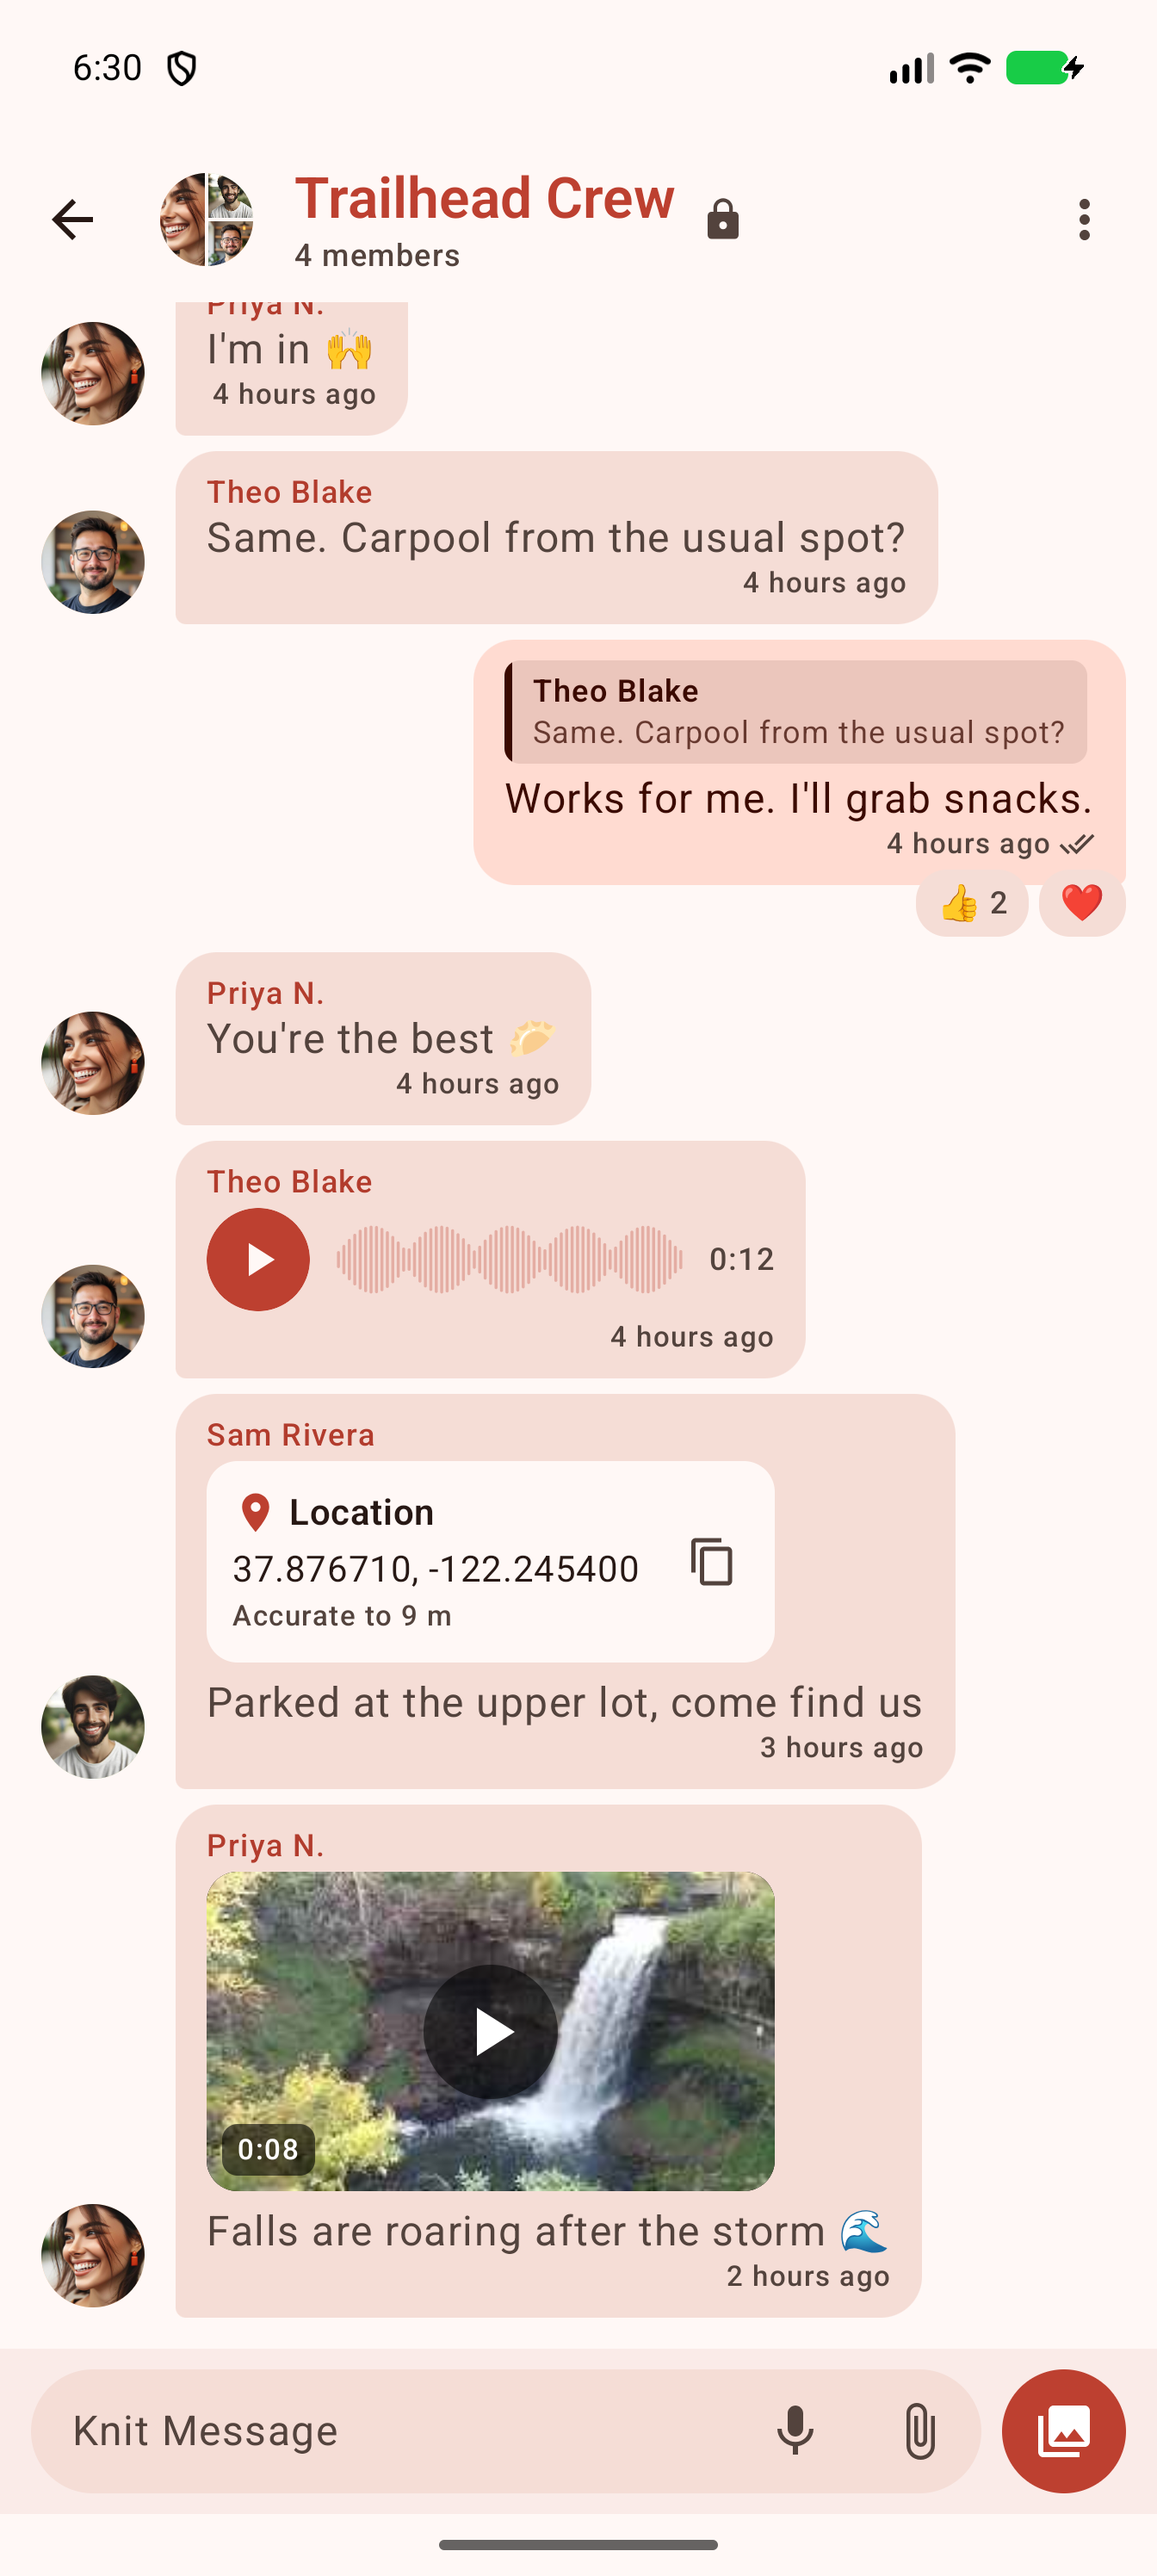
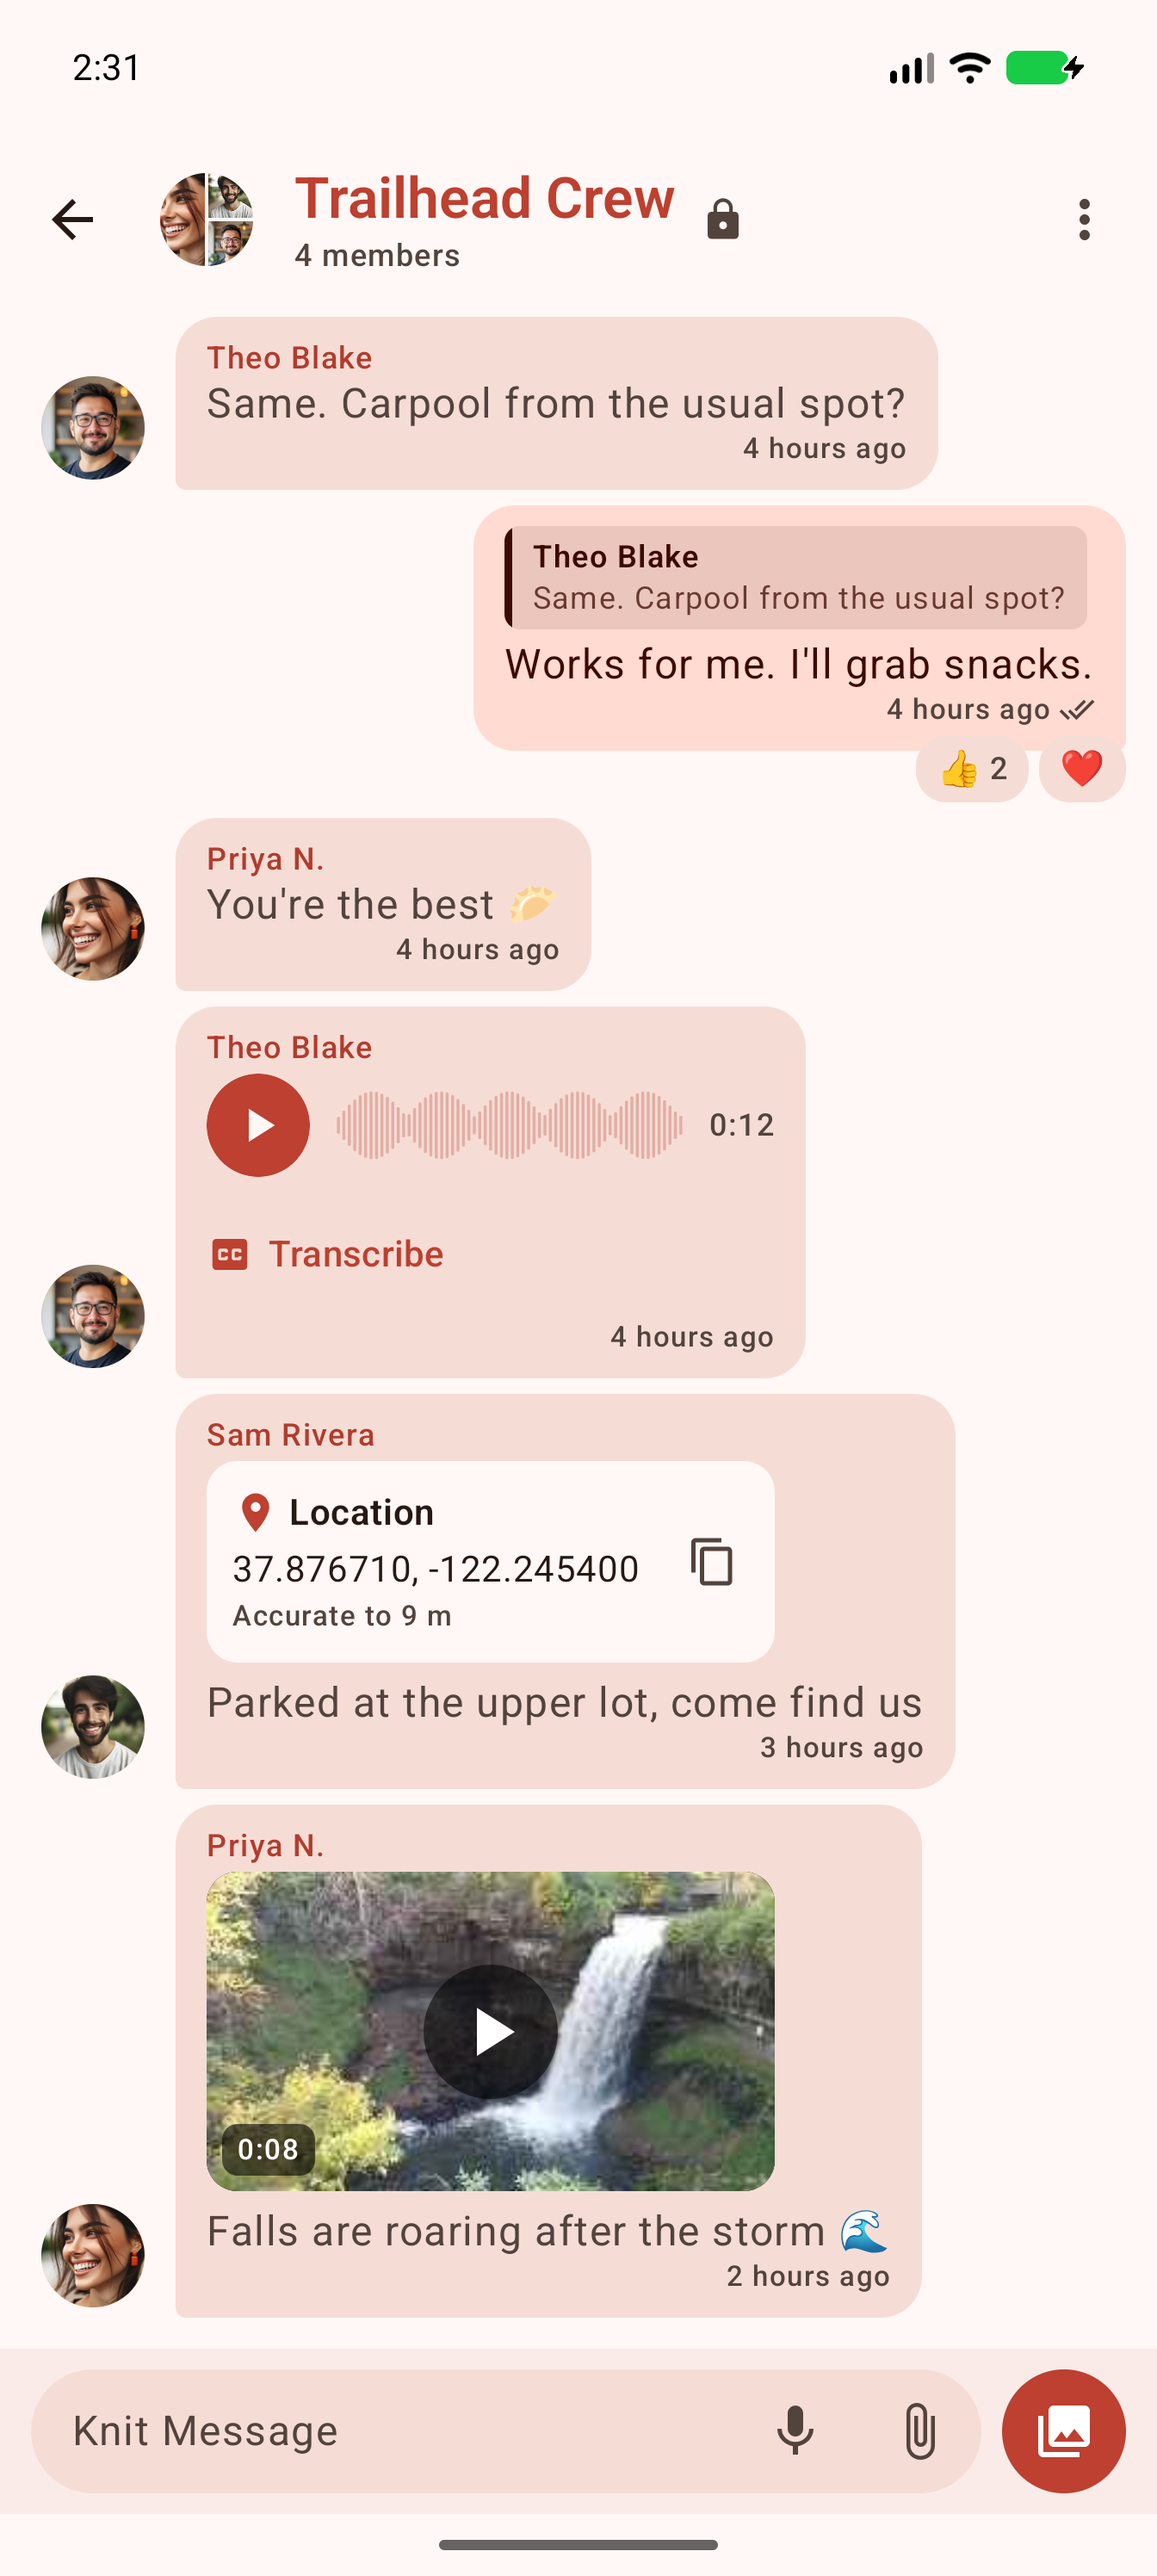
docs(changelog): record 2.11.0 and carry its F-Droid metadata onto main
2.11.0 was cut on release/2.11.0, so main never saw the release commit.
The CHANGELOG's 2.11.0 section, .fdroid.yml (the 2.11.0 Builds entry
pinned to 4fe98b18 with its emojilib scandelete), changelogs/21100900.txt,
the full description and the phone screenshots are byte-identical to the
release branch. Unreleased keeps only what 2.11.0 did not ship.

Changed region(s): [[0.0312, 0.0932, 1.0, 0.5284], [0.0938, 0.0, 0.125, 0.0311]]

diff --git a/CHANGELOG.md b/CHANGELOG.md
@@ -9,7 +9,7 @@ product:
   platforms: [android]
   category: Communication
 document:
-  updated: 2026-10-30T23:39:43Z
+  updated: 2026-11-08T22:26:45Z
   coverage: partial
   canonical: https://whatsnew.fyi/product/knit
   locale: en
@@ -22,11 +22,43 @@ document:
 
 ### Added
 
+- Knit now comes in Simplified Chinese. It follows a phone set to Chinese, or on Android 13 and later you can
+  pick it for Knit alone in Settings › Apps › Knit › Language. It is a machine translation no native speaker
+  has checked yet, and anyone can suggest a fix on Weblate.
+
+### Fixed
+
+- A phone already linked to another over Bluetooth could keep dialing it again every few seconds, wasting
+  battery and radio time. It now leaves a link it holds alone.
+- Knit now waits until you accept a message request before it downloads the request's pictures and files.
+  They arrive after you tap Accept, so a stranger's attachments no longer take up space on your phone first.
+
+## [2.11.0](https://github.com/getknit/knit/releases/tag/v2.11.0) — 2026-11-08T22:26:45Z
+
+> Knit in five new languages, translation on your phone, and speech turned into text
+
+### Added
+
+- Long-press a message and pick Translate to read it in your language. Knit translates between English and
+  Spanish, French, Ukrainian, German or Portuguese on your phone, and after a one-time download for each
+  language it works offline.
+- When a chat is in another language, Knit offers to translate your message before you send it, and you can
+  send your translation models to a contact. Your messages also tell people which language you write and which
+  you read. The Translation switch in Settings › Chats turns that off.
+- Knit can now turn English speech into text on your phone: tap Transcribe on a voice message, turn on CC in a
+  call, or read walkie-talkie bursts as they play. The speech model is a one-time download from getknit.app,
+  and Settings › Calls turns transcripts off.
+- A private internet relay can now run shared rooms, which you join under Internet relays with the invite its
+  operator gives you. Everyone in a room becomes a contact, and you can post, react and, where the relay
+  allows, send photos and files.
+- A new switch on the Internet relays screen, Connect directly to contacts, lets Knit link you straight to a
+  contact over the Internet when a relay is slow or won't carry a photo. You both need it on, and a contact
+  Knit tries to connect with learns your phone's IP address.
 - In the US, Australia and New Zealand, you can now set a LoRa board up on a frequency only Knit boards use.
   Knit then uses the full airtime your region allows, but other people's Meshtastic radios no longer pass
   your messages on.
-- Knit now comes in Brazilian Portuguese, Spanish, Ukrainian, French, German and Simplified Chinese: it
-  follows a phone set to one of them, and on Android 13 and later you can pick one for Knit alone in
+- Knit now comes in Brazilian Portuguese, Spanish, Ukrainian, French and German: it follows a phone set to
+  one of them, and on Android 13 and later you can pick one for Knit alone in
   Settings › Apps › Knit › Language. Native speakers are still checking them on Weblate, where anyone can
   suggest a fix.
 - Emoji names and emoji search follow Knit's language too: in Portuguese, "polegar" finds thumbs up and
@@ -54,6 +86,8 @@ document:
 
 - Message notifications now play Knit's own sound, a soft long-short-long chime that is K in Morse code. Only
   new installs get it, so if Knit is already on your phone, its notifications keep the sound they have now.
+- Calls now ring with Knit's own ringtone, a music-box tune built on the message chime. If you had picked a
+  different sound for Knit's calls in Android's settings, you'll need to pick it again.
 - Low-power mode in Settings is now a Wi-Fi Aware switch, and Battery Saver no longer turns it on. If you had
   Low-power mode on, Wi-Fi Aware stays off until you switch it back on.
 - Knit now turns Wi-Fi Aware off while no nearby phone can use it, and back on when one comes into Bluetooth
@@ -95,8 +129,6 @@ document:
 
 - After Bluetooth was switched off and on, a LoRa board could show as connected while nothing went over it
   until Knit restarted. Knit now reconnects to the board by itself and keeps messages queued meanwhile.
-- A phone already linked to another over Bluetooth could keep dialing it again every few seconds, wasting
-  battery and radio time. It now leaves a link it holds alone.
 - Text shared into a chat past the 2000-character limit locked the field, and sending cut off the end unseen.
   You can now edit it down with a counter showing how far over it is, and Knit won't send it until it fits.
 - Pasting a message too long for the chat did nothing, with no sign why. A toast now gives the limit, and in
@@ -139,8 +171,11 @@ document:
   could keep seeing their old photo or initials until one of you restarted Knit.
 - On a phone with no Files app, Knit closed when you went to send a file or photo, save a file, or make or
   restore a backup. It now says the phone has no app for picking or saving files.
-- Knit now waits until you accept a message request before it downloads the request's pictures and files.
-  They arrive after you tap Accept, so a stranger's attachments no longer take up space on your phone first.
+- Messages and names written in Arabic, Hebrew or another right-to-left language now read right to left, with
+  their punctuation at the end of the line. Safety numbers, recovery keys and logs always read left to right.
+- An audio file you pick to send, such as an MP3, now shows its length and a waveform, like a voice message.
+  Long-pressing a voice message's waveform or play button now opens the message menu, as the rest of the
+  bubble does.
 
 ## [2.10.2](https://github.com/getknit/knit/releases/tag/v2.10.2) — 2026-11-02T03:32:31Z
 
